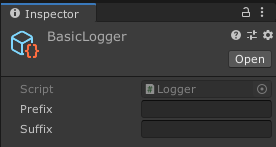
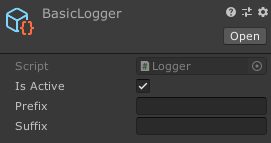
Add "Is Active" logger parameter

diff --git a/Assets/_GAME/Scripts/Utilities/Logger/Logger.cs b/Assets/_GAME/Scripts/Utilities/Logger/Logger.cs
@@ -12,11 +12,15 @@ public class Logger : ScriptableObject
     #region Properties
 
     [SerializeField]
-    [Tooltip("The eventual prefix to add to a message that contains a value.")]
+    [Tooltip("Defines if the logs from this asset are enabled or not")]
+    private bool m_IsActive = true;
+
+    [SerializeField]
+    [Tooltip("The eventual prefix to add to a message that contains a value")]
     private string m_Prefix = string.Empty;
 
     [SerializeField]
-    [Tooltip("The eventual suffix to add to a message that contains a value.")]
+    [Tooltip("The eventual suffix to add to a message that contains a value")]
     private string m_Suffix = string.Empty;
 
     #endregion
@@ -29,7 +33,8 @@ public class Logger : ScriptableObject
     /// </summary>
     public void LogMessage(string _Message)
     {
-        Debug.Log(_Message);
+        if(m_IsActive)
+            Debug.Log(_Message);
     }
 
     #endregion
@@ -42,7 +47,8 @@ public class Logger : ScriptableObject
     /// </summary>
     public void Log()
     {
-        Debug.Log($"{m_Prefix} {m_Suffix}");
+        if (m_IsActive)
+            Debug.Log($"{m_Prefix} {m_Suffix}");
     }
 
     /// <summary>
@@ -50,7 +56,8 @@ public class Logger : ScriptableObject
     /// </summary>
     public void Log(string _Data)
     {
-        Debug.Log($"{m_Prefix} {_Data} {m_Suffix}");
+        if (m_IsActive)
+            Debug.Log($"{m_Prefix} {_Data} {m_Suffix}");
     }
 
     /// <summary>
@@ -58,7 +65,8 @@ public class Logger : ScriptableObject
     /// </summary>
     public void Log(int _Data)
     {
-        Debug.Log($"{m_Prefix} {_Data} {m_Suffix}");
+        if (m_IsActive)
+            Debug.Log($"{m_Prefix} {_Data} {m_Suffix}");
     }
 
     /// <summary>
@@ -66,7 +74,8 @@ public class Logger : ScriptableObject
     /// </summary>
     public void Log(float _Data)
     {
-        Debug.Log($"{m_Prefix} {_Data} {m_Suffix}");
+        if (m_IsActive)
+            Debug.Log($"{m_Prefix} {_Data} {m_Suffix}");
     }
 
     /// <summary>
@@ -74,7 +83,8 @@ public class Logger : ScriptableObject
     /// </summary>
     public void Log(bool _Data)
     {
-        Debug.Log($"{m_Prefix} {_Data} {m_Suffix}");
+        if (m_IsActive)
+            Debug.Log($"{m_Prefix} {_Data} {m_Suffix}");
     }
 
     /// <summary>
@@ -82,7 +92,8 @@ public class Logger : ScriptableObject
     /// </summary>
     public void Log(Vector3 _Data)
     {
-        Debug.Log($"{m_Prefix} {_Data} {m_Suffix}");
+        if (m_IsActive)
+            Debug.Log($"{m_Prefix} {_Data} {m_Suffix}");
     }
 
     /// <summary>
@@ -90,7 +101,8 @@ public class Logger : ScriptableObject
     /// </summary>
     public void Log(Quaternion _Data)
     {
-        Debug.Log($"{m_Prefix} {_Data} {m_Suffix}");
+        if (m_IsActive)
+            Debug.Log($"{m_Prefix} {_Data} {m_Suffix}");
     }
 
     /// <summary>
@@ -98,7 +110,8 @@ public class Logger : ScriptableObject
     /// </summary>
     public void Log(GameObject _Data)
     {
-        Debug.Log($"{m_Prefix} {_Data} {m_Suffix}");
+        if (m_IsActive)
+            Debug.Log($"{m_Prefix} {_Data} {m_Suffix}");
     }
 
     #endregion

diff --git a/Docs/logger.md b/Docs/logger.md
@@ -10,6 +10,7 @@ In the original project, you should be able to find a *BasicLogger* asset, but y
 
 ## Parameters
 
+- **Is Active**: Defines if the logs from this asset are enabled or not.
 - **Prefix**: The eventual prefix to add to a message that contains a value.
 - **Suffix**: The eventual suffix to add to a message that contains a value.
 
